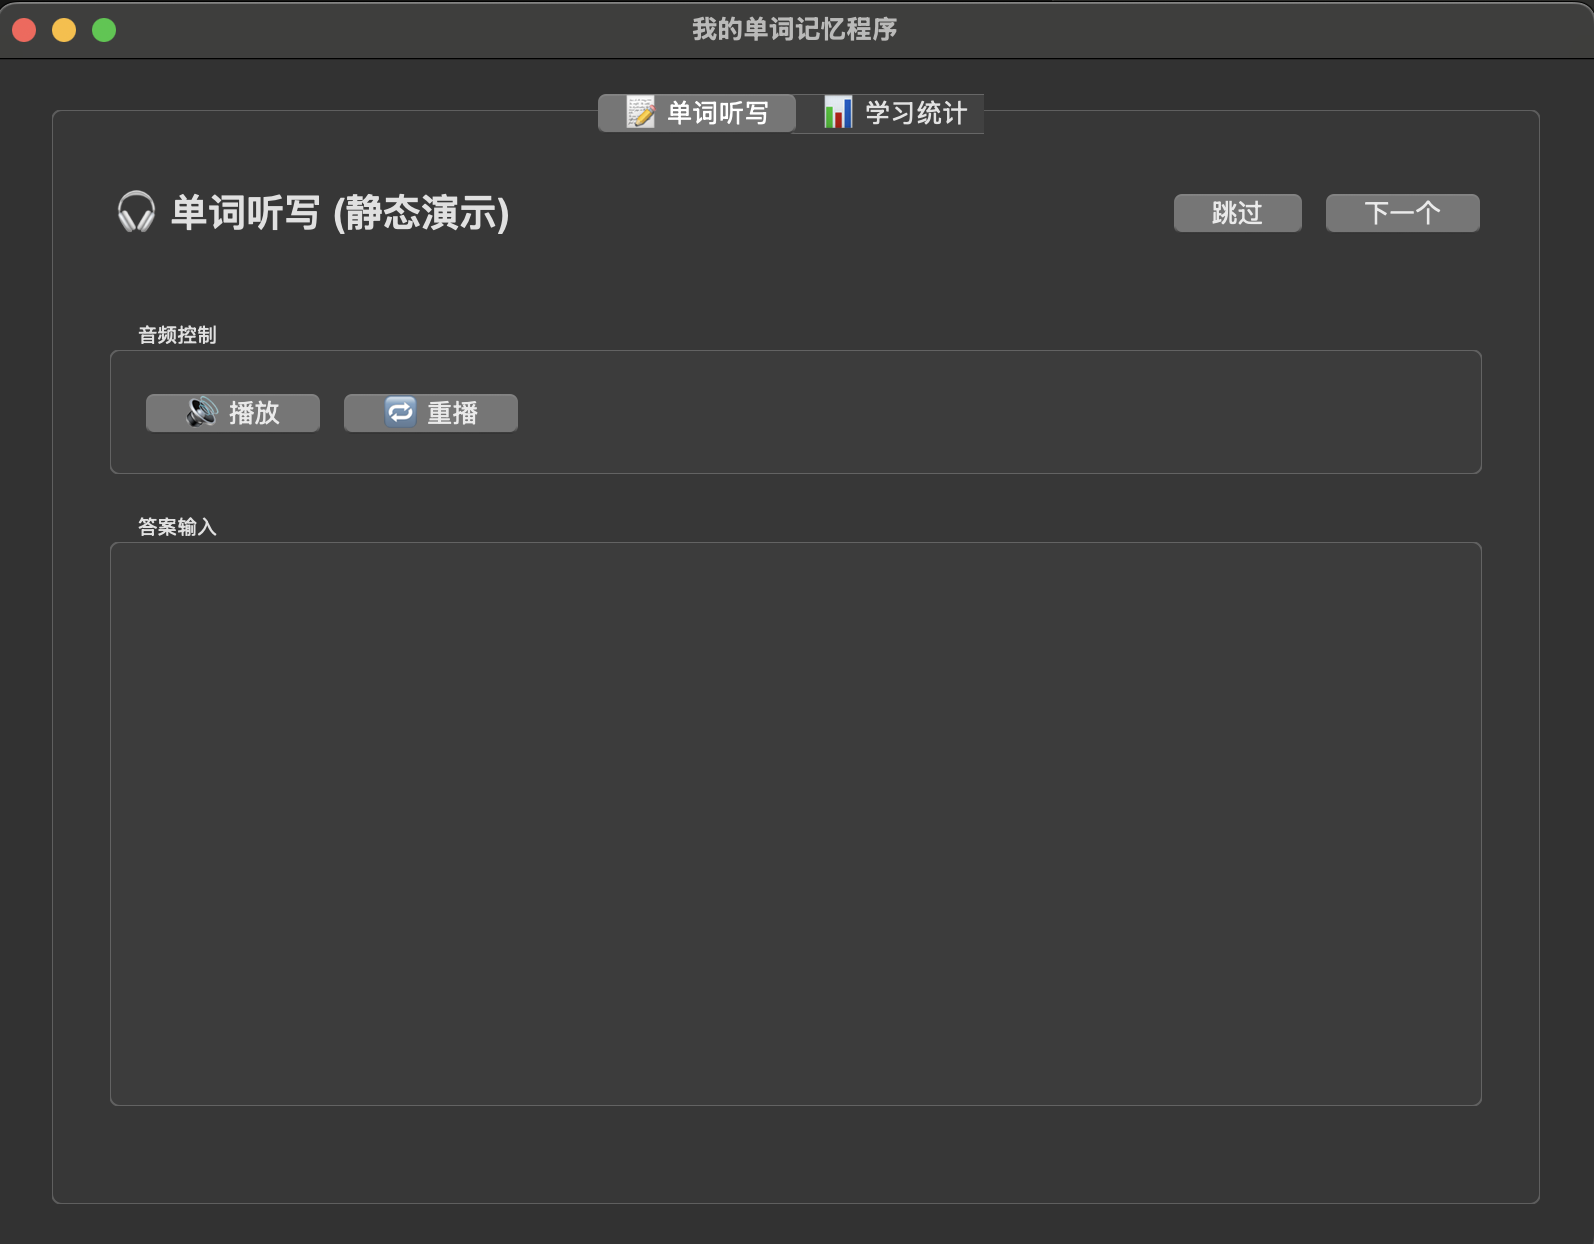
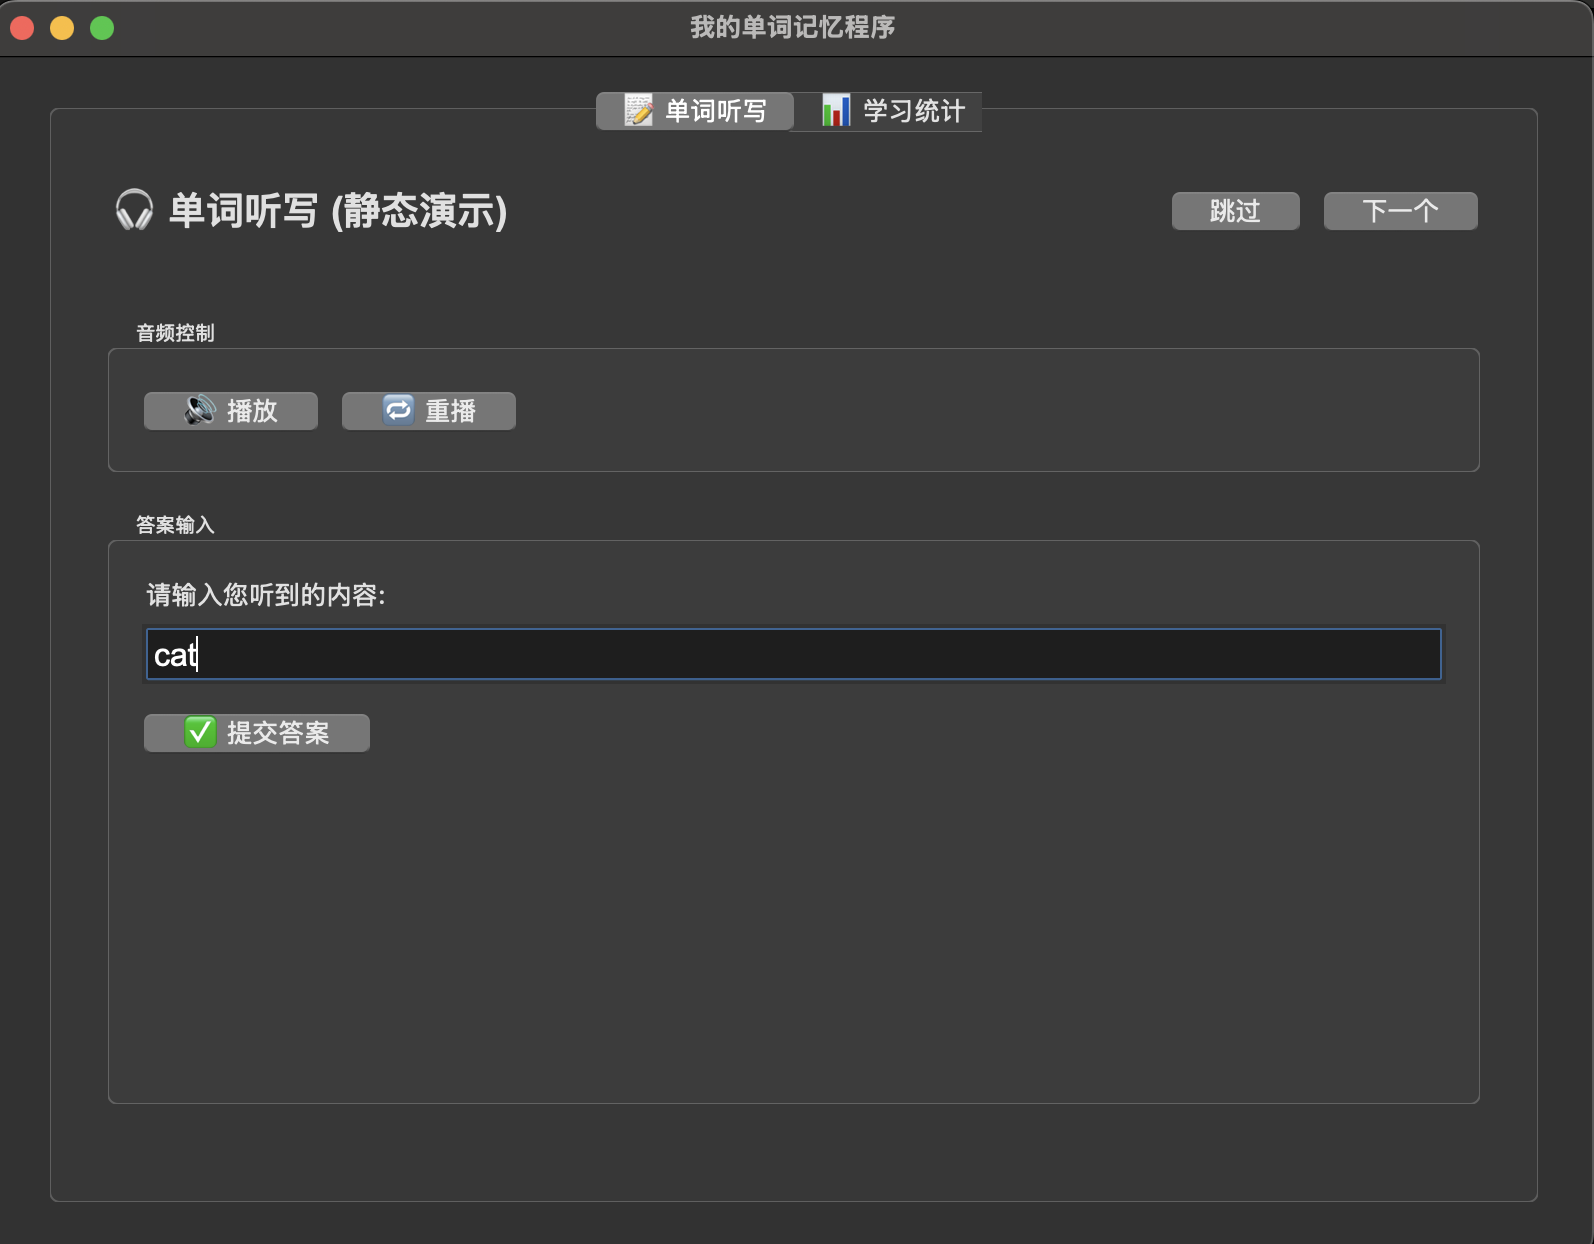
ui更新到了输入文本框和提交答案的按钮

diff --git a/ui/main.py b/ui/main.py
@@ -106,25 +106,24 @@ class DictationInterface:
         ttk.Button(audio_frame, text="🔁 重播", 
                    command=lambda: self._button_clicked("重播")).pack(side=tk.LEFT, padx=(0, 10))
 
-     
 
          # 答案输入区域
         answer_frame = ttk.LabelFrame(main_frame, text="答案输入", padding="15")
         answer_frame.pack(fill=tk.BOTH, expand=True, pady=(0, 20))
 
-        # ttk.Label(answer_frame, text="请输入您听到的内容:").pack(anchor=tk.W)
-        # self.answer_input = scrolledtext.ScrolledText(answer_frame, height=4, wrap=tk.WORD,
-        #                                             font=('Arial', 12))
-        # self.answer_input.pack(fill=tk.X, pady=(5, 10))
-        #
-        # submit_frame = ttk.Frame(answer_frame)
-        # submit_frame.pack(fill=tk.X)
-        #
+        ttk.Label(answer_frame, text="请输入您听到的内容:").pack(anchor=tk.W) #提示文字, 左对齐
+        self.answer_input = tk.Entry(answer_frame, font=('Arial', 12))
+        self.answer_input.pack(fill=tk.X, pady=(5, 10))
+
+
+        submit_frame = ttk.Frame(answer_frame)
+        submit_frame.pack(fill=tk.X)
+
         # # 【修改点】提交按钮的 command
-        # self.submit_button = ttk.Button(submit_frame, text="✅ 提交答案", 
-        #                                 command=lambda: self._button_clicked("提交答案"))
-        # self.submit_button.pack(side=tk.LEFT)
-        #
+        self.submit_button = ttk.Button(submit_frame, text="✅ 提交答案", 
+        command=lambda: self._button_clicked("提交答案"))
+        self.submit_button.pack(side=tk.LEFT)
+
         # # 结果显示区域
         # self.result_frame = ttk.LabelFrame(main_frame, text="结果", padding="15")
         # self.result_frame.pack(fill=tk.X)
